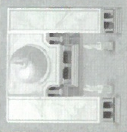
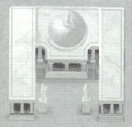
Added disabling buildings

diff --git a/game/gui/components/entities/BuildingEntity.py b/game/gui/components/entities/BuildingEntity.py
@@ -14,8 +14,10 @@ class BuildingEntity(pygame.sprite.Sprite):
         entity_id: int,
         screen: pygame.Surface,
         map_point: list[int],
-        entity_icon: pygame.Surface,
-        if_dragging: bool
+        entity_icons: list[pygame.Surface],
+        if_dragging: bool,
+        champion: str,
+        island: str = ""
     ):
         self._id = entity_id
         self.screen = screen
@@ -26,9 +28,14 @@ class BuildingEntity(pygame.sprite.Sprite):
         self.drag_offset_x = 0
         self.drag_offset_y = 0
         super().__init__()
-        self.image = entity_icon
+        self._act_img = 0
+        self._entity_icons = entity_icons
+        self.image = self._entity_icons[self._act_img]
         self.rect = self.image.get_rect()
         self.rect.topleft = self._act_location
+        self.already_clicked = False
+        self._champion = champion
+        self._island = island
 
     @property
     def entity_id(self) -> int:
@@ -37,6 +44,8 @@ class BuildingEntity(pygame.sprite.Sprite):
     def update(self):
         if self._if_dragging:
             self.handle_mouse()
+        elif DataCache.get_value("metro_building"):
+            self._handle_build_delete()
         self.rect.topleft = self._act_location
         if (
             not pygame.mouse.get_pressed()[0]
@@ -70,13 +79,62 @@ class BuildingEntity(pygame.sprite.Sprite):
             mouse_x, mouse_y = mouse_pos
             self._act_location = (mouse_x + self.drag_offset_x, mouse_y + self.drag_offset_y)
 
+    def _handle_build_delete(self):
+        if (
+            DataCache.get_value("act_stage") != GameState.BOARD
+            or DataCache.get_value("message_board")
+            or DataCache.get_value("is_dragging")
+        ):
+            return
+        mouse_pos = pygame.mouse.get_pos()
+        mouse_clicked = pygame.mouse.get_pressed()[0]
+        self._reset_status_clicked()
+        if mouse_clicked:
+            if self.validate_click(mouse_pos):
+                _selected_buildings = DataCache.get_value("building_to_delete")
+                self._act_img = 1 if self._act_img == 0 else 0
+                _selected_buildings[self._champion] = self._id if self._act_img else -1
+                self.already_clicked = True
+                self.image = self._entity_icons[self._act_img]
+                DataCache.set_value("building_to_delete", _selected_buildings)
+        else:
+            self.already_clicked = False
+
+    def validate_click(self, mouse_pos):
+        buildings_status = DataCache.get_value("buildings_status")[self._id]
+        _island_status = DataCache.get_value("islands_status")
+        _act_player = DataCache.get_value("act_player")
+        _selected_buildings = DataCache.get_value("building_to_delete")
+        return (
+            _island_status[buildings_status.island].owner == _act_player
+            and not self.already_clicked
+            and self.rect.collidepoint(mouse_pos)
+            and (
+                self._champion not in _selected_buildings.keys()
+                or _selected_buildings[self._champion] == self._id
+                or _selected_buildings[self._champion] == -1
+            )
+        )
+
+    def _reset_status_clicked(self):
+        buildings_status = DataCache.get_value("buildings_status")[self._id]
+        _island_status = DataCache.get_value("islands_status")
+        _act_player = DataCache.get_value("act_player")
+        _selected_buildings = DataCache.get_value("building_to_delete")
+        if _island_status[buildings_status.island].owner != _act_player and self._act_img == 1:
+            self._act_img = 0
+            if self._champion in _selected_buildings.keys() and _selected_buildings[self._champion] == self._id:
+                _selected_buildings[self._champion] = -1
+            self.already_clicked = False
+            self.image = self._entity_icons[self._act_img]
+        DataCache.set_value("building_to_delete", _selected_buildings)
+
     def validate_move(self):
         loc = [self._act_location[0] + 20, self._act_location[1] + 20]
         DataCache.set_value(
             "new_building",
             loc
         )
-        print("aaaaaaaaaaaaaaaaa")
         pygame.event.post(pygame.event.Event(EventConfig.NEW_BUILDING))
 
     def update_data(self, new_place):

diff --git a/game/gui/views/BoardView.py b/game/gui/views/BoardView.py
@@ -62,11 +62,19 @@ class BoardView(AbstractView):
         }
         self._play_order = self.load_and_scale((Config.app.boards_items / "order.png"), [60, 250])
         self._buildings = {
-            building: self.load_and_scale((Config.app.building_icons / f"{building}.png"), [40, 40])
+            building: [
+                self.load_and_scale((Config.app.building_icons / f"{building}.png"), [40, 40]),
+                self.load_and_scale((Config.app.building_icons / f"{building}_del.png"), [40, 40])
+            ]
             for building in ["atena", "ares", "posejdon", "zeus", "metro"]
         }
         self._income_icon = self.load_and_scale((Config.app.boards_items / "rog.png"), [30, 30])
         self.next_icon = self.org_hov((Config.app.boards_items / "next_player"), [240, 60])
+        self.metro_building = {
+            "not": self.load_and_scale((Config.app.background_dir / "metro_req.png"), [300, 300]),
+            "yes": self.load_and_scale((Config.app.background_dir / "metro_req_not.png"), [300, 300])
+        }
+        self.yes = self.load_and_scale((Config.app.background_dir / "yes.png"), [40, 40])
 
     def load_hero(self):
         if (
@@ -117,6 +125,15 @@ class BoardView(AbstractView):
         self.buy_card_button()
         if DataCache.get_value("act_stage") == GameState.BOARD:
             self.next_player_button()
+        if DataCache.get_value("metro_building") is True:
+            self.build_metro_decider()
+
+    def build_metro_decider(self):
+        self.screen.blit(self.metro_building["not"], (900, 250))
+        self.screen.blit(self.yes, (950, 285))
+        self.screen.blit(self.yes, (950, 350))
+        self.screen.blit(self.yes, (950, 415))
+        self.screen.blit(self.yes, (950, 480))
 
     def build_message_box(self):
         message = DataCache.get_value("message_board")
@@ -218,7 +235,8 @@ class BoardView(AbstractView):
                     self.screen,
                     buildings[building_id].location,
                     self._buildings[buildings[building_id].hero],
-                    False
+                    False,
+                    buildings[building_id].hero
                 )
                 self.building_sprite.add(building)
                 self._loaded_entities.append(building_id)
@@ -246,7 +264,8 @@ class BoardView(AbstractView):
             self.screen,
             Config.boards.new_building_icon_loc,
             self._buildings["ares"],
-            True
+            True,
+            "ares"
         )
         self.building_sprite.add(base_building)
 
@@ -313,7 +332,8 @@ class BoardView(AbstractView):
             self.screen,
             Config.boards.new_building_icon_loc,
             self._buildings["posejdon"],
-            True
+            True,
+            "posejdon"
         )
         self.building_sprite.add(base_building)
 
@@ -323,7 +343,8 @@ class BoardView(AbstractView):
             self.screen,
             Config.boards.new_building_icon_loc,
             self._buildings["atena"],
-            True
+            True,
+            "atena"
         )
         self.building_sprite.add(base_building)
 
@@ -333,7 +354,8 @@ class BoardView(AbstractView):
             self.screen,
             Config.boards.new_building_icon_loc,
             self._buildings["zeus"],
-            True
+            True,
+            "zeus"
         )
         self.building_sprite.add(base_building)
 

diff --git a/game/managers/board_sub_managers/BuildingsEntityManager.py b/game/managers/board_sub_managers/BuildingsEntityManager.py
@@ -67,11 +67,13 @@ class BuildingsEntityManager(AbstractManager):
             temp_id = self.generate_unique_id()
             self.buildings_status[temp_id] = Building(
                 self._act_hero,
-                self.field_config[new_loc[0]]["small"][int(new_loc[1]) - 1]
+                self.field_config[new_loc[0]]["small"][int(new_loc[1]) - 1],
+                new_loc[0]
             )
             if self._islands_status[new_loc[0]].small_building is not None:
                 self._islands_status[new_loc[0]].small_building[new_loc[1]] = self._act_hero  # type: ignore
-            self.check_if_metro()
+            if self.check_if_metro():
+                DataCache.set_value("metro_building", True)
         else:
             DataCache.set_value("reset_building", True)
         self.save_cache_values()
@@ -86,4 +88,4 @@ class BuildingsEntityManager(AbstractManager):
                     building_status[island_data.owner][building] += 1
         for player, buildings_counted in building_status.items():
             if all(buildings_counted.values()) >= 1:
-                print("new_merto_for_player", player)
+                return player

diff --git a/game/DataCacheSection/BoardCache.py b/game/DataCacheSection/BoardCache.py
@@ -20,6 +20,8 @@ class BoardCacheSection:
         "new_entity_price": 0,
         "zeus_card": False,
         "athena_card": False,
+        "metro_building": True,
+        "building_to_delete": {}
     }
 
     _cache_data_functions: dict = {
@@ -42,6 +44,8 @@ class BoardCacheSection:
         "new_entity_price": lambda x: x,
         "zeus_card": lambda x: x,
         "athena_card": lambda x: x,
+        "metro_building": lambda x: x,
+        "building_to_delete": lambda x: x,
     }
 
     _base_values: dict = {}

diff --git a/game/DataCache.py b/game/DataCache.py
@@ -55,6 +55,9 @@ class DataCache:
         "new_entity_price",
         "zeus_card",
         "athena_card",
+
+        "metro_building",
+        "building_to_delete",
     ]
 
     _data_cache: dict = {}

diff --git a/game/dataclasses/BuildingDataClass.py b/game/dataclasses/BuildingDataClass.py
@@ -5,3 +5,4 @@ from dataclasses import dataclass
 class Building:
     hero: str
     location: list
+    island: str
